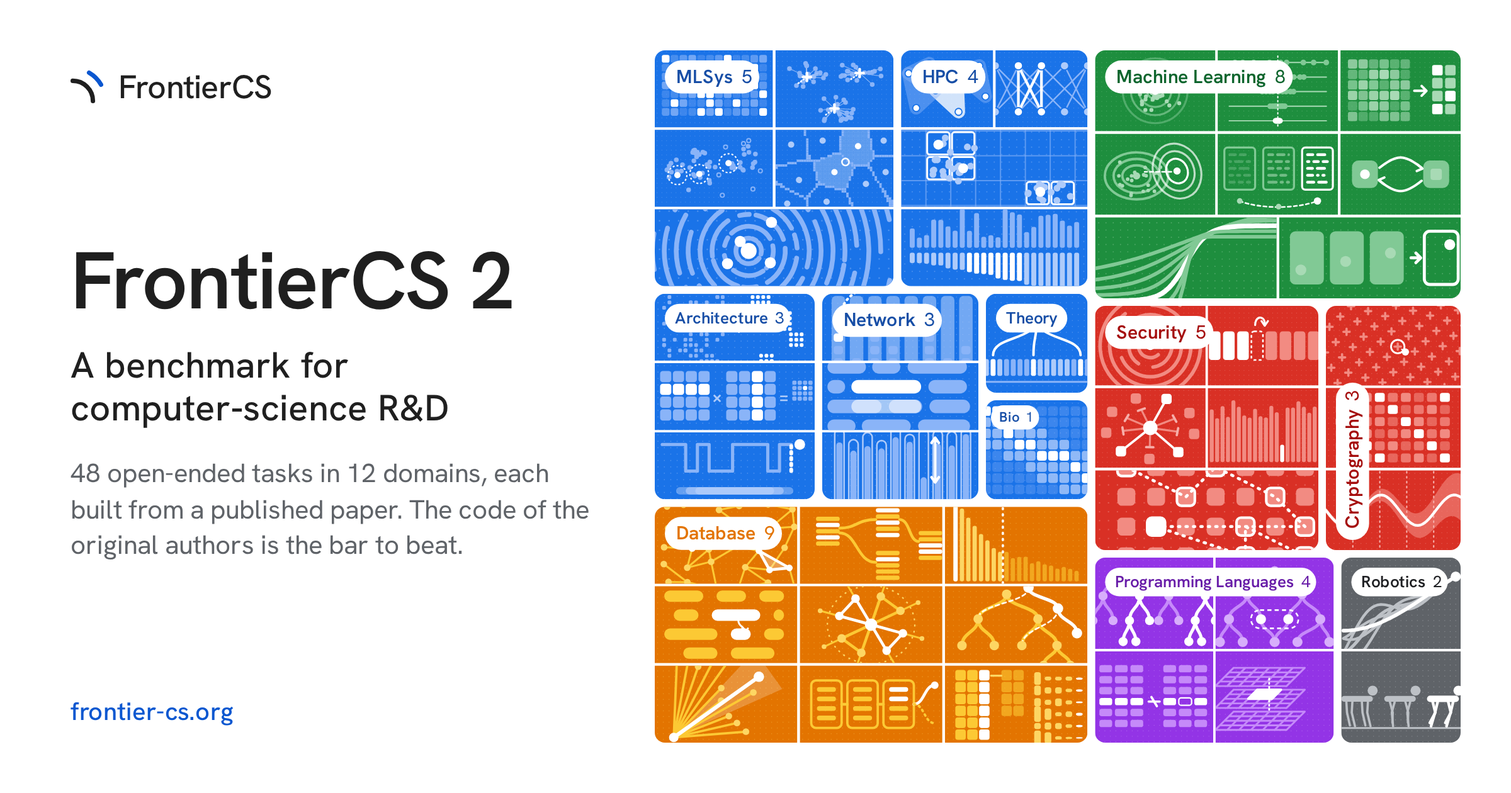
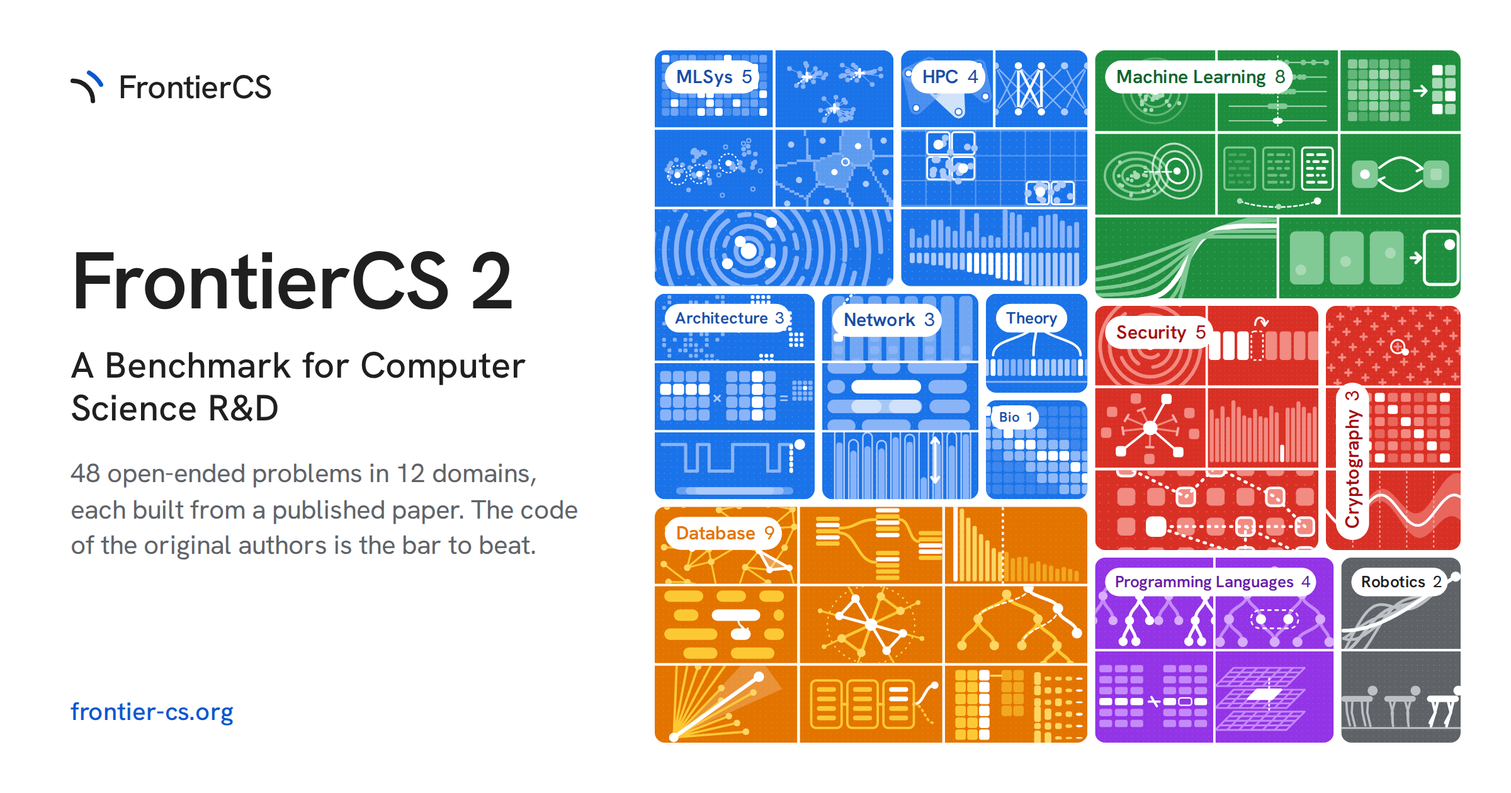
Follow-ups to #63: no Slack link, title case, the intro, and "problems" throughout
Qiuyang, 2026-10-14.
- The Slack link is gone from the header, the footer and the Team page; the workspace is no longer
  in use. Four blog posts that mention it are left as written.
- The FrontierCS 2 heading is in title case, "A Benchmark for Computer Science R&D"; "computer
  science" loses its hyphen in the description, the footer line and the share card.
- Wenhao's intro paragraph, with three edits: the fields named now include machine learning and ML
  systems, the bar reads "on every metric of every hidden workload", and no hyphen in "computer
  science research". The intro wraps without leaving a word alone.
- Reader-visible "task" becomes "problem", as on the FrontierCS page: the section link, the intro,
  the map head, the leaderboard note and group-by chip, the FECI explainer, the private set, the
  FAQ, the per-domain table, the map card, the footer and the share card, which is redrawn.
  Anchors, URLs, ids and code names keep "task".

Claude-Session: https://claude.ai/code/session_01Gf3ooCfY2zLAYmtLQkeBGt

diff --git a/assets/js/fcs2.js b/assets/js/fcs2.js
@@ -2,8 +2,8 @@
 // Data and shared helpers are in fcs2-data.js, loaded first; assets/css/fcs2.css holds the styles.
 /* numbers in the page text come from the data, so they cannot drift from the chart */
 document.querySelectorAll('[data-fill]').forEach(el => { el.textContent = {updated:`Last updated: ${UPDATED}`, runs:String(RUNS.length),
-  runtasks:`on ${NTASK(RUNS)} tasks`, models:`${MODELS.length} models from ${new Set(MODELS.map(m => m.lab)).size} labs have run so far.`,
-  summary:`${RUNS.length} runs on ${NTASK(RUNS)} tasks by ${MODELS.length} models`,
+  runtasks:`on ${NTASK(RUNS)} problems`, models:`${MODELS.length} models from ${new Set(MODELS.map(m => m.lab)).size} labs have run so far.`,
+  summary:`${RUNS.length} runs on ${NTASK(RUNS)} problems by ${MODELS.length} models`,
   ntasks:String(TASKS.length), ndomains:String(new Set(TASKS.map(t => t.d)).size)}[el.dataset.fill]; });
 // text in a model's colour, 22% darker: GPT-6.1 Sol, Qwen 3.8 Max and GLM 5.3 Flash are under 3:1 on white at full colour
 const MTXT = id => `color-mix(in srgb, ${MCOL[id]} 78%, #000)`;
@@ -287,12 +287,12 @@ function drawLB() {
 
 /* ---------- results by domain ---------- */
 function drawTable() {
-  const head = `<tr><th>Domain</th><th class="tk">Tasks</th>${RANKED.map(m => `<th><span class="mn" style="background:${MCOL[m.id]}"></span><span class="full">${m.name}</span><span class="short">${m.short}</span></th>`).join('')}</tr>`;
+  const head = `<tr><th>Domain</th><th class="tk">Problems</th>${RANKED.map(m => `<th><span class="mn" style="background:${MCOL[m.id]}"></span><span class="full">${m.name}</span><span class="short">${m.short}</span></th>`).join('')}</tr>`;
   const line = (d, cls) => {
     const vals = RANKED.map(m => { const s = RUNS.filter(r => r.m === m.id && (d === 'All' || r.d === d)).map(r => r.p * 100); return s.length ? mean(s) : null; });
     const best = Math.max(...vals.filter(v => v != null));
     const n = NTASK(RUNS.filter(r => d === 'All' || r.d === d));
-    return `<tr class="${cls || ''}"><td>${d === 'All' ? 'All tasks' : esc(d)}</td><td class="tk">${n}</td>${vals.map(v => v == null ? '<td class="e">–</td>' : `<td class="${v === best && vals.filter(x => x != null).length > 1 ? 'best' : ''}">${Math.round(v)}%</td>`).join('')}</tr>`;
+    return `<tr class="${cls || ''}"><td>${d === 'All' ? 'All problems' : esc(d)}</td><td class="tk">${n}</td>${vals.map(v => v == null ? '<td class="e">–</td>' : `<td class="${v === best && vals.filter(x => x != null).length > 1 ? 'best' : ''}">${Math.round(v)}%</td>`).join('')}</tr>`;
   };
   $('#restbl').innerHTML = head + DOMS_WITH_RUNS.map(d => line(d)).join('') + line('All', 'all');
 }
@@ -374,7 +374,7 @@ function drawMap() {
     squarify(doms.map(N_IN), ...ar).forEach(([x, y, w, h], j) => {
       const d = doms[j], n = N_IN(d);
       const x0 = x + (x > tol ? G / 2 : 0), y0 = y + (y > tol ? G / 2 : 0), x1 = x + w - (x + w < W - tol ? G / 2 : 0), y1 = y + h - (y + h < H - tol ? G / 2 : 0), bw = x1 - x0, bh = y1 - y0;
-      const g = sv('g', {class:'blk', 'aria-label':`${d}, ${n} task${n > 1 ? 's' : ''}`, 'data-d':d});
+      const g = sv('g', {class:'blk', 'aria-label':`${d}, ${n} problem${n > 1 ? 's' : ''}`, 'data-d':d});
       // the block holds one illustration per task (fcs2-art.js), in rows that keep each tile closest to 3:2, framed by thin white seams
       const ts = TASKS.filter(t => t.d === d), gap = 2, cid = `mapclip${k}_${j}`;
       let rows = 1, sc = 1e9; for (let r = 1; r <= n; r++) { const c = Math.ceil(n / r), v = Math.abs(Math.log((bw / c) / (bh / r) / 1.5)); if (v < sc) { sc = v; rows = r; } }
@@ -506,7 +506,7 @@ function showRun() {
     else { const rank = D.rank, X = r => p.x + PX + (N - r) / (N - 1 || 1) * inner, sy = p.y + p.h - 74;
       const ord = `${rank}${[, 'st', 'nd', 'rd'][rank % 100 > 10 && rank % 100 < 14 ? 0 : rank % 10] || 'th'}`;
       panel.append(sv('text', {x:p.x + PX, y:top + 62, 'font-size':52, 'font-weight':600, fill:'#fff'}, rank === 1 ? 'Hardest' : ord),
-        sv('text', {x:p.x + PX, y:top + 90, 'font-size':14, fill:'#fff', 'fill-opacity':.92}, `${rank === 1 ? '' : 'hardest '}of ${N} tasks · ${D.pass} of ${D.n} models pass`),
+        sv('text', {x:p.x + PX, y:top + 90, 'font-size':14, fill:'#fff', 'fill-opacity':.92}, `${rank === 1 ? '' : 'hardest '}of ${N} problems · ${D.pass} of ${D.n} models pass`),
         sv('line', {x1:p.x + PX, x2:p.x + PX + inner, y1:sy, y2:sy, stroke:'#fff', 'stroke-opacity':.45, 'stroke-width':1.5}));
       for (let r = 1; r <= N; r++) panel.append(sv('line', {x1:X(r), x2:X(r), y1:sy - 5, y2:sy + 5, stroke:'#fff', 'stroke-opacity':.5, 'stroke-width':1.5}));
       panel.append(sv('circle', {cx:X(rank), cy:sy, r:8, fill:'#fff'}),

diff --git a/_includes/bottom_nav.html b/_includes/bottom_nav.html
@@ -2,11 +2,11 @@
   <div class="foot-inner">
     <div class="foot-brandc">
       <a class="brand" href="{{ '/' | relative_url }}"><svg class="brand-mark" viewBox="4.5 14.44 81.06 81.06" aria-hidden="true"><path d="M10 40 A50 50 0 0 1 60 90" fill="none" style="stroke:var(--mk-in,#1f1f1f)" stroke-width="11" stroke-linecap="round"/><path d="M50.45 19.94 A80.9 80.9 0 0 1 80.06 49.55" fill="none" style="stroke:var(--mk-out,#0b57d0)" stroke-width="11" stroke-linecap="round"/></svg><b>FrontierCS</b></a>
-      <p class="foot-tag">Open-ended benchmarks for agents that do computer-science research.</p>
+      <p class="foot-tag">Open-ended benchmarks for agents that do computer science research.</p>
     </div>
     <div><h4>FrontierCS 2</h4><ul>
       <li><a href="{{ '/#leaderboard' | relative_url }}">Leaderboard</a></li>
-      <li><a href="{{ '/#tasks' | relative_url }}">Tasks</a></li>
+      <li><a href="{{ '/#tasks' | relative_url }}">Problems</a></li>
       <li><a href="{{ '/#cases' | relative_url }}">Case studies</a></li>
       <li><a href="{{ '/#questions' | relative_url }}">Questions</a></li></ul></div>
     <div><h4>FrontierCS</h4><ul>
@@ -16,8 +16,7 @@
     <div><h4>Community</h4><ul>
       <li><a href="{{ '/blog/' | relative_url }}">Blog</a></li>
       <li><a href="{{ '/workshop/' | relative_url }}">Workshop</a></li>
-      <li><a href="{{ '/team/' | relative_url }}">Team</a></li>
-      <li><a href="https://join.slack.com/t/frontiercsworkspace/shared_invite/zt-45amo198k-I5GhwahF36_o40U98ulTDA" target="_blank" rel="noopener noreferrer">Slack</a></li></ul></div>
+      <li><a href="{{ '/team/' | relative_url }}">Team</a></li></ul></div>
     <div class="foot-base"><span>FrontierCS · {{ site.time | date: '%Y' }}</span><span>MIT License</span></div>
   </div>
 </footer>

diff --git a/_includes/header.html b/_includes/header.html
@@ -23,7 +23,6 @@
           <a class="narrow-only{% if page.url contains '/paper/' %} active{% endif %}" href="{{ '/paper/' | relative_url }}"{% if page.url contains '/paper/' %} aria-current="page"{% endif %}>Research</a>
           <a class="narrow-only{% if page.url contains '/workshop/' %} active{% endif %}" href="{{ '/workshop/' | relative_url }}"{% if page.url contains '/workshop/' %} aria-current="page"{% endif %}>Workshop</a>
           <a class="narrow-only{% if page.url contains '/team/' %} active{% endif %}" href="{{ '/team/' | relative_url }}"{% if page.url contains '/team/' %} aria-current="page"{% endif %}>Team</a>
-          <a href="https://join.slack.com/t/frontiercsworkspace/shared_invite/zt-45amo198k-I5GhwahF36_o40U98ulTDA" target="_blank" rel="noopener noreferrer">Slack</a>
           <a class="nav-icon" href="https://github.com/FrontierCS/Frontier-CS" target="_blank" rel="noopener noreferrer" aria-label="FrontierCS on GitHub">
             <svg viewBox="0 0 16 16" aria-hidden="true"><path d="M8 0C3.58 0 0 3.58 0 8c0 3.54 2.29 6.53 5.47 7.59.4.07.55-.17.55-.38 0-.19-.01-.82-.01-1.49-2.01.37-2.53-.49-2.69-.94-.09-.23-.48-.94-.82-1.13-.28-.15-.68-.52-.01-.53.63-.01 1.08.58 1.23.82.72 1.21 1.87.87 2.33.66.07-.52.28-.87.51-1.07-1.78-.2-3.64-.89-3.64-3.95 0-.87.31-1.59.82-2.15-.08-.2-.36-1.02.08-2.12 0 0 .67-.21 2.2.82.64-.18 1.32-.27 2-.27.68 0 1.36.09 2 .27 1.53-1.04 2.2-.82 2.2-.82.44 1.1.16 1.92.08 2.12.51.56.82 1.27.82 2.15 0 3.07-1.87 3.75-3.65 3.95.29.25.54.73.54 1.48 0 1.07-.01 1.93-.01 2.2 0 .21.15.46.55.38A8.013 8.013 0 0016 8c0-4.42-3.58-8-8-8z"/></svg>
             <span class="sr-only">GitHub</span>

diff --git a/assets/css/fcs2.css b/assets/css/fcs2.css
@@ -23,7 +23,7 @@ button{font:inherit; color:inherit; cursor:pointer}
 .upd{display:flex; align-items:center; gap:7px; font-size:14px; font-weight:600; color:var(--ink-2); margin:0 0 12px}
 .upd i{width:12px; height:12px; border-radius:50%; background:#5f6368; display:inline-block}
 h1{font-weight:600; font-size:clamp(34px,4.6vw,46px); line-height:1.1; margin:0; max-width:15em; text-wrap:balance}
-.lead{font-size:clamp(18px,1.6vw,20px); line-height:1.3; color:var(--ink-2); max-width:32em; margin:22px 0 0}
+.lead{font-size:clamp(18px,1.6vw,20px); line-height:1.3; color:var(--ink-2); max-width:32em; margin:22px 0 0; text-wrap:pretty}
 h2{font-weight:600; font-size:clamp(25px,2.4vw,30px); line-height:1.2; margin:0}
 .field{display:flex; align-items:center; gap:10px; border:1px solid #80868b; border-radius:4px; height:42px; padding-inline:12px; background:#fff}
 .field:focus-within{border-color:var(--teal); box-shadow:0 0 0 3px rgba(11,87,208,.15)}

diff --git a/bin/fcs2_card.py b/bin/fcs2_card.py
@@ -36,13 +36,13 @@ svg#map text{{font-family:'Hanken Grotesk',sans-serif}}
 <div class="txt">
   <div class="brand"><svg viewBox="4.5 14.44 81.06 81.06"><path d="M10 40 A50 50 0 0 1 60 90" fill="none" style="stroke:var(--mk-in,#1f1f1f)" stroke-width="11" stroke-linecap="round"/><path d="M50.45 19.94 A80.9 80.9 0 0 1 80.06 49.55" fill="none" style="stroke:var(--mk-out,#0b57d0)" stroke-width="11" stroke-linecap="round"/></svg>FrontierCS</div>
   <h1>FrontierCS 2</h1>
-  <p class="sub">A benchmark for computer&#8209;science R&amp;D</p>
+  <p class="sub">A Benchmark for Computer Science R&amp;D</p>
   <p class="lead" id="lead"></p>
   <div class="url">frontier-cs.org</div>
 </div>
 <svg id="map" xmlns="http://www.w3.org/2000/svg"></svg>
 </div><script>
-document.getElementById('lead').textContent = `${{TASKS.length}} open-ended tasks in ${{DOMAINS.length}} domains, each built from a published paper. The code of the original authors is the bar to beat.`;
+document.getElementById('lead').textContent = `${{TASKS.length}} open-ended problems in ${{DOMAINS.length}} domains, each built from a published paper. The code of the original authors is the bar to beat.`;
 function squarify(vals, x, y, w, h) {{
   const tot = vals.reduce((a, b) => a + b, 0), areas = vals.map(v => v * w * h / tot), out = [];
   const worst = (row, side) => {{ const s = row.reduce((a, b) => a + b, 0); return Math.max(...row.map(r => Math.max(side * side * r / (s * s), s * s / (side * side * r)))); }};

diff --git a/index.md b/index.md
@@ -1,14 +1,14 @@
 ---
 layout: default
 title: FrontierCS 2
-description: A benchmark of 48 open-ended computer-science R&D tasks built from published papers, where the authors’ own code is the reference to beat.
+description: A benchmark of 48 open-ended computer science R&D problems built from published papers, where the authors’ own code is the reference to beat.
 permalink: /
 page_css: fcs2
 og_image: assets/img/fcs2-card.png   # share card for X and other link previews, drawn by bin/fcs2_card.py
 ---
 <div class="fcs2">
 <nav class="sub" aria-label="Sections"><div class="col" id="subnav">
-  <a href="#overview" class="on">Overview</a><a href="#leaderboard">Leaderboard</a><a href="#tasks">Tasks</a><a href="#cases">Case studies</a><a href="#private">Private set</a><a href="#sponsors">Sponsors</a><a href="#questions">Questions</a>
+  <a href="#overview" class="on">Overview</a><a href="#leaderboard">Leaderboard</a><a href="#tasks">Problems</a><a href="#cases">Case studies</a><a href="#private">Private set</a><a href="#sponsors">Sponsors</a><a href="#questions">Questions</a>
 </div></nav>
 
 <div class="col" id="main" tabindex="-1">
@@ -16,8 +16,8 @@ og_image: assets/img/fcs2-card.png   # share card for X and other link previews,
   <div class="hero">
   <div class="hero-text">
   <p class="upd"><i></i><span>Last updated: {{ site.time | date: "%B %-d, %Y" }}</span></p>
-  <h1>FrontierCS 2: A benchmark for computer-science R&amp;D</h1>
-  <p class="lead">FrontierCS 2 evaluates AI agents on computer-science research. Its <span data-fill="ntasks">48</span> tasks come from published papers in <span data-fill="ndomains">12</span> fields, from databases and systems to cryptography and theory. Each task removes the key contribution of a paper from the code released with it. An agent passes only if its own version beats the original implementation on hidden workloads, so every result is measured against published work.</p>
+  <h1>FrontierCS 2: A Benchmark for Computer Science R&amp;D</h1>
+  <p class="lead">FrontierCS 2 evaluates AI agents on computer science research. Its <span data-fill="ntasks">48</span> problems come from published papers in <span data-fill="ndomains">12</span> fields, from machine learning and ML systems to databases, security and theory. Each problem removes the key contribution of a paper from the code released with it. An agent passes only if its own version beats the original implementation on every metric of every hidden workload, so each result is measured against published work.</p>
 
   <div class="links"><a class="pill lg" id="paperlink" aria-disabled="true">Paper (coming soon)</a></div>
   <a id="taskbase" href="{{ '/task/' | relative_url }}" hidden></a>
@@ -27,8 +27,8 @@ og_image: assets/img/fcs2-card.png   # share card for X and other link previews,
   </div>
 
   <figure class="chart" id="teaser">
-    <div class="chead"><span>Tasks</span></div>
-    <div class="map" id="map"><svg id="mapsvg" aria-label="The 48 tasks by domain"></svg></div>
+    <div class="chead"><span>Problems</span></div>
+    <div class="map" id="map"><svg id="mapsvg" aria-label="The 48 problems by domain"></svg></div>
   </figure>
 </section>
 
@@ -58,21 +58,21 @@ og_image: assets/img/fcs2-card.png   # share card for X and other link previews,
       <div class="how-body">
         <div class="how-row">
           <div class="how-txt">
-            <p class="how-step"><span>1</span>One curve per task</p>
-            <p>FECI puts every model and the authors’ code on one scale. Each task gets an S-shaped curve: a model’s expected score on the task rises from 0 to 100 as its FECI passes the task’s difficulty, the FECI at which the expected score is 50.</p>
+            <p class="how-step"><span>1</span>One curve per problem</p>
+            <p>FECI puts every model and the authors’ code on one scale. Each problem gets an S-shaped curve: a model’s expected score on the problem rises from 0 to 100 as its FECI passes the problem’s difficulty, the FECI at which the expected score is 50.</p>
             <div class="how-eq">\[\text{expected score} = \frac{100}{1 + e^{-k\,(\text{FECI} - \text{difficulty})}}\]</div>
           </div>
           <figure class="chart how-fig">
-            <div class="chead"><span>Expected score on three tasks</span></div>
-            <div class="plot" id="howaplot"><svg id="howasvg" role="img" aria-label="Expected score against FECI on three tasks"></svg><div class="tip" id="howatip" hidden></div></div>
+            <div class="chead"><span>Expected score on three problems</span></div>
+            <div class="plot" id="howaplot"><svg id="howasvg" role="img" aria-label="Expected score against FECI on three problems"></svg><div class="tip" id="howatip" hidden></div></div>
             <div class="legend" id="howalegend"></div>
           </figure>
         </div>
         <p class="how-step"><span>2</span>Why FECI</p>
         <ul class="how-why">
-          <li><b>It weighs each score by difficulty.</b> A mean score counts a point on an easy task the same as a point on a hard one. FECI weighs each score by how hard its task is.</li>
-          <li><b>It has a human anchor.</b> Every task scores on its own scale. FECI turns them into one number, and 25 always means the authors’ code.</li>
-          <li><b>It has room at the top.</b> The hardest task sits at difficulty <span id="how-dmax">206</span>, far above every model, so the scale does not saturate the way a 0 to 100 average does.</li>
+          <li><b>It weighs each score by difficulty.</b> A mean score counts a point on an easy problem the same as a point on a hard one. FECI weighs each score by how hard its problem is.</li>
+          <li><b>It has a human anchor.</b> Every problem scores on its own scale. FECI turns them into one number, and 25 always means the authors’ code.</li>
+          <li><b>It has room at the top.</b> The hardest problem sits at difficulty <span id="how-dmax">206</span>, far above every model, so the scale does not saturate the way a 0 to 100 average does.</li>
           <li><b>The method is tested.</b> FECI is item response theory, the model behind standardized tests that compare students who answered different questions. Epoch AI uses it in the <a href="https://epoch.ai/benchmarks/eci" target="_blank" rel="noopener">Epoch Capabilities Index</a> to combine many benchmarks into one scale, and Anthropic tracks how fast its models’ capabilities rise with a fork of Epoch’s index, the Anthropic ECI, in its <a href="https://www.anthropic.com/system-cards" target="_blank" rel="noopener">system cards</a>.</li>
         </ul>
       </div>
@@ -98,13 +98,13 @@ og_image: assets/img/fcs2-card.png   # share card for X and other link previews,
       <button class="pill lg custom" id="custom" type="button" aria-expanded="false" aria-controls="settings">
         <svg width="18" height="18" viewBox="0 0 24 24" aria-hidden="true"><circle cx="12" cy="12" r="3.2" fill="none" stroke="currentColor" stroke-width="1.8"/><path d="M12 2.8v3M12 18.2v3M2.8 12h3M18.2 12h3M5.5 5.5l2.1 2.1M16.4 16.4l2.1 2.1M5.5 18.5l2.1-2.1M16.4 7.6l2.1-2.1" stroke="currentColor" stroke-width="1.8" stroke-linecap="round"/></svg>
         Customize graph</button>
-      <div class="cfoot">{% include chart_logo.html %}<span id="lbnote">scores on each task’s own 0–100 scale</span></div>
+      <div class="cfoot">{% include chart_logo.html %}<span id="lbnote">scores on each problem’s own 0–100 scale</span></div>
     </figure>
     <aside class="settings" id="settings" aria-label="Graph settings">
       <h3>Settings</h3>
       <label class="toggle"><input type="checkbox" id="showruns" checked> Show individual runs</label>
       <h4>Group by</h4>
-      <div class="chips" id="groupby"><button class="chip" type="button" data-g="model" aria-pressed="true">Model</button><button class="chip" type="button" data-g="task" aria-pressed="false">Task</button></div>
+      <div class="chips" id="groupby"><button class="chip" type="button" data-g="model" aria-pressed="true">Model</button><button class="chip" type="button" data-g="task" aria-pressed="false">Problem</button></div>
       <h4>Domain</h4>
       <div class="radios" id="domradios"></div>
     </aside>
@@ -141,7 +141,7 @@ og_image: assets/img/fcs2-card.png   # share card for X and other link previews,
 
 <section class="sec" id="private">
   <h2>Private set</h2>
-  <p class="tbd">Tasks we don’t release.</p>
+  <p class="tbd">Problems we don’t release.</p>
   <div class="locked" id="locked" aria-hidden="true"></div>
   <p class="pcontact">Questions about the private set: write to Qiuyang Mang at <a href="mailto:qmang@berkeley.edu">qmang@berkeley.edu</a> or Wenhao Chai at <a href="mailto:wenhao.chai@princeton.edu">wenhao.chai@princeton.edu</a>.</p>
 </section>
@@ -158,14 +158,14 @@ og_image: assets/img/fcs2-card.png   # share card for X and other link previews,
   <div class="faq">
     <h2>Questions</h2>
     <div class="fqlist">
-      <details id="q-built"><summary>How is a task built?</summary><div class="ans"><p>We delete a paper’s contribution from its own repository. The agent writes it back and is scored against the authors’ code.</p></div></details>
+      <details id="q-built"><summary>How is a problem built?</summary><div class="ans"><p>We delete a paper’s contribution from its own repository. The agent writes it back and is scored against the authors’ code.</p></div></details>
       <details id="q-see"><summary>What does the agent see?</summary><div class="ans"><p>It sees its repository and, for each patch it submits, a score on the development workloads and one message. The development and evaluation sets are separate: the evaluator, the hidden evaluation workloads and the reference stay with the judge. At the end the agent picks one of its versions as its final submission, and only that version is scored on the hidden workloads. Each run has a wall-clock budget of 5 hours.</p></div></details>
       <details id="q-pick"><summary>What if the agent picks the wrong version?</summary><div class="ans"><p>We report it as it is. Agents sometimes end on a version that fails although an earlier one would have passed. Choosing which version to submit is part of the work we measure, so we do not correct the choice: every run is scored by the submission the agent chose.</p></div></details>
-      <details id="q-bar"><summary>What counts as a pass?</summary><div class="ans"><p>A run passes only when its final submission beats the human baseline, the authors’ code, on every metric the task checks and on every hidden workload. A higher total score is not enough: a run that is faster on average but worse on one metric or one workload does not pass. The criteria are set from the reference’s own measurements. For SVG-EAR, its latency must be at most 0.96 of the reference’s, with PSNR, SSIM and LPIPS within fixed bands. Each task’s page lists the metrics its judge checks.</p></div></details>
-      <details id="q-score"><summary>How are scores computed?</summary><div class="ans"><p>The leaderboard’s main number is pass rate, the share of runs that pass by the criteria above. Each task’s evaluator also scores the final submission on the hidden suite, from 0 to 100, and a run that times out scores 0. The mean score chart averages these scores. FECI, the FrontierCS Epoch Capabilities Index, is fitted with Epoch AI’s own ECI code. It fits one logistic curve per task to every model’s score and to the human reference, the authors’ own code, then scales the result so Human is 25 and Kimi K2.7 Code is 0. Kimi K2.7 Code takes part in the fit as this 0 point but is not on the leaderboard. Above 25 means above the authors’ code on each task’s own scale. FECI’s bars are 90% intervals from Epoch’s bootstrap, which resamples each model’s task results. Costs are estimates; “How is cost estimated?” below gives the method. The results cover <span data-fill="summary">480 runs on 48 tasks by 10 models</span>.</p></div></details>
-      <details id="q-scaling"><summary>How is test-time scaling computed?</summary><div class="ans"><p>The agent submits many times during a run, and each submission is scored on the task’s development workloads. At a cost budget, a run counts its latest valid submission within that budget, the latest whose development score is above 0, or a score of 0 if it has none yet. One submission in ten scores 0, mostly from a failed build, validation or correctness gate, and agents usually recover from it; counting such a failure as the run’s result would score an experiment instead of the agent’s working code. Taking the best submission so far instead would choose with hindsight. Development scores are not adjusted to the hidden suite, because the platform does not score the final submission on the development workloads. Once the budget covers a whole run, its hidden final score counts, so every curve ends at the model’s leaderboard value. The budget is the estimated cost, as the next answer explains.</p></div></details>
+      <details id="q-bar"><summary>What counts as a pass?</summary><div class="ans"><p>A run passes only when its final submission beats the human baseline, the authors’ code, on every metric the problem checks and on every hidden workload. A higher total score is not enough: a run that is faster on average but worse on one metric or one workload does not pass. The criteria are set from the reference’s own measurements. For SVG-EAR, its latency must be at most 0.96 of the reference’s, with PSNR, SSIM and LPIPS within fixed bands. Each problem’s page lists the metrics its judge checks.</p></div></details>
+      <details id="q-score"><summary>How are scores computed?</summary><div class="ans"><p>The leaderboard’s main number is pass rate, the share of runs that pass by the criteria above. Each problem’s evaluator also scores the final submission on the hidden suite, from 0 to 100, and a run that times out scores 0. The mean score chart averages these scores. FECI, the FrontierCS Epoch Capabilities Index, is fitted with Epoch AI’s own ECI code. It fits one logistic curve per problem to every model’s score and to the human reference, the authors’ own code, then scales the result so Human is 25 and Kimi K2.7 Code is 0. Kimi K2.7 Code takes part in the fit as this 0 point but is not on the leaderboard. Above 25 means above the authors’ code on each problem’s own scale. FECI’s bars are 90% intervals from Epoch’s bootstrap, which resamples each model’s problem results. Costs are estimates; “How is cost estimated?” below gives the method. The results cover <span data-fill="summary">480 runs on 48 problems by 10 models</span>.</p></div></details>
+      <details id="q-scaling"><summary>How is test-time scaling computed?</summary><div class="ans"><p>The agent submits many times during a run, and each submission is scored on the problem’s development workloads. At a cost budget, a run counts its latest valid submission within that budget, the latest whose development score is above 0, or a score of 0 if it has none yet. One submission in ten scores 0, mostly from a failed build, validation or correctness gate, and agents usually recover from it; counting such a failure as the run’s result would score an experiment instead of the agent’s working code. Taking the best submission so far instead would choose with hindsight. Development scores are not adjusted to the hidden suite, because the platform does not score the final submission on the development workloads. Once the budget covers a whole run, its hidden final score counts, so every curve ends at the model’s leaderboard value. The budget is the estimated cost, as the next answer explains.</p></div></details>
       <details id="q-cost"><summary>How is cost estimated?</summary><div class="ans"><p>Cost per run comes from three sources. For GPT-6 Astra, GPT-6.1 Sol, Muse Spark 1.3 and Muse Wonder 1.0 it is the cost their model gateway estimated. For Claude Opus 5.5 it is the cost Claude Code reports for itself; where a run’s saved trace stops before the run ends, its tokens are priced at the rates Claude Code’s complete reports follow and scaled to the whole run. Kimi K3, DeepSeek V4.1 Flash, GLM 5.3, GLM 5.3 Flash and Qwen 3.8 Max report tokens but no cost, so we price every token at the model’s cache-read list price, in US$ per million tokens: Kimi K3 0.30, DeepSeek V4.1 Flash 0.003 (off-peak), GLM 5.3 0.26, GLM 5.3 Flash 0.03 and Qwen 3.8 Max 0.25, found on October 9, 2026, and for GLM 5.3 Flash on October 13. Their output tokens are not counted apart, so their costs are lower bounds. The platform gives no spend per development submission; the test-time scaling chart splits a run’s spend by the share of its wall time elapsed. Costs compare orders of magnitude better than small gaps.</p></div></details>
-      <details id="q-run"><summary>Can I run it?</summary><div class="ans"><p>We will release the tasks, evaluators and judge as one evaluation environment.</p></div></details>
+      <details id="q-run"><summary>Can I run it?</summary><div class="ans"><p>We will release the problems, evaluators and judge as one evaluation environment.</p></div></details>
     </div>
   </div>
 </section>

diff --git a/_pages/team.md b/_pages/team.md
@@ -95,6 +95,5 @@ permalink: /team/
     <li class="tm"><img class="tm-av" src="{{ 'assets/img/workshop/qiuyang-mang.jpg' | relative_url }}" alt="" width="144" height="144" loading="lazy"><span class="tm-tx"><a class="tm-n" href="https://joyemang33.github.io" target="_blank" rel="noopener noreferrer">Qiuyang Mang</a><span class="tm-a">UC Berkeley</span><a class="tm-mail" href="mailto:qmang@berkeley.edu">qmang@berkeley.edu</a></span></li>
     <li class="tm"><img class="tm-av" src="{{ 'assets/img/workshop/wenhao-chai.jpg' | relative_url }}" alt="" width="144" height="144" loading="lazy"><span class="tm-tx"><a class="tm-n" href="https://wenhaochai.com/" target="_blank" rel="noopener noreferrer">Wenhao Chai</a><span class="tm-a">Princeton</span><a class="tm-mail" href="mailto:wenhao.chai@princeton.edu">wenhao.chai@princeton.edu</a></span></li>
   </ul>
-  <div class="fc-pills"><a class="pill" href="https://join.slack.com/t/frontiercsworkspace/shared_invite/zt-45amo198k-I5GhwahF36_o40U98ulTDA" target="_blank" rel="noopener noreferrer">Slack</a></div>
 </div>
 </section>
